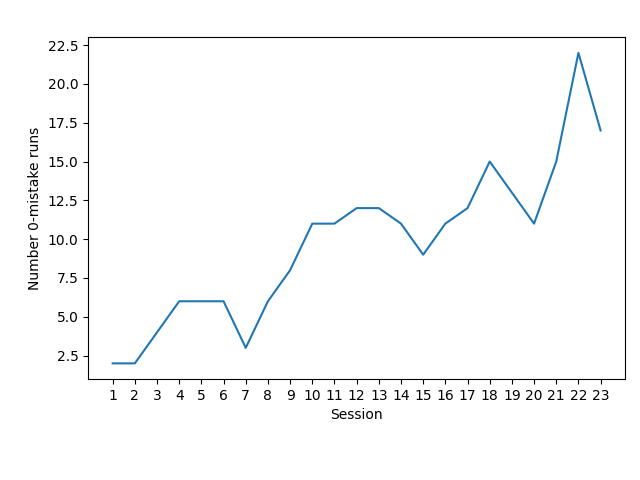
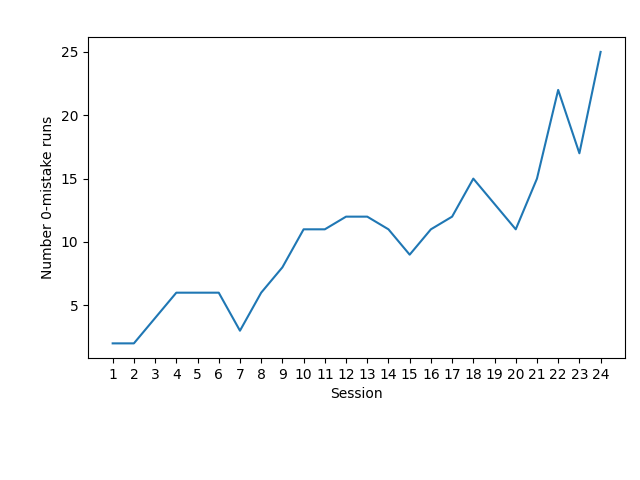
Sesh 24

diff --git a/analysis/generate_session_data.py b/analysis/generate_session_data.py
@@ -6,7 +6,7 @@ from generate_lm import generate_lm
 from generate_rolling import generate_rolling
 
 
-session_ID = "23"
+session_ID = "24"
 
 localStorage_to_raw(session_ID)
 raw_to_session(session_ID)

diff --git a/analysis/generate_agg_data.py b/analysis/generate_agg_data.py
@@ -108,7 +108,7 @@ def generate_agg_data(sessions):
     print("Aggregate data generated successfully.")
 
 
-upr = 24
+upr = 25
 
 generate_agg_data([str(i) for i in range(1, upr)])
 generate_lm(
